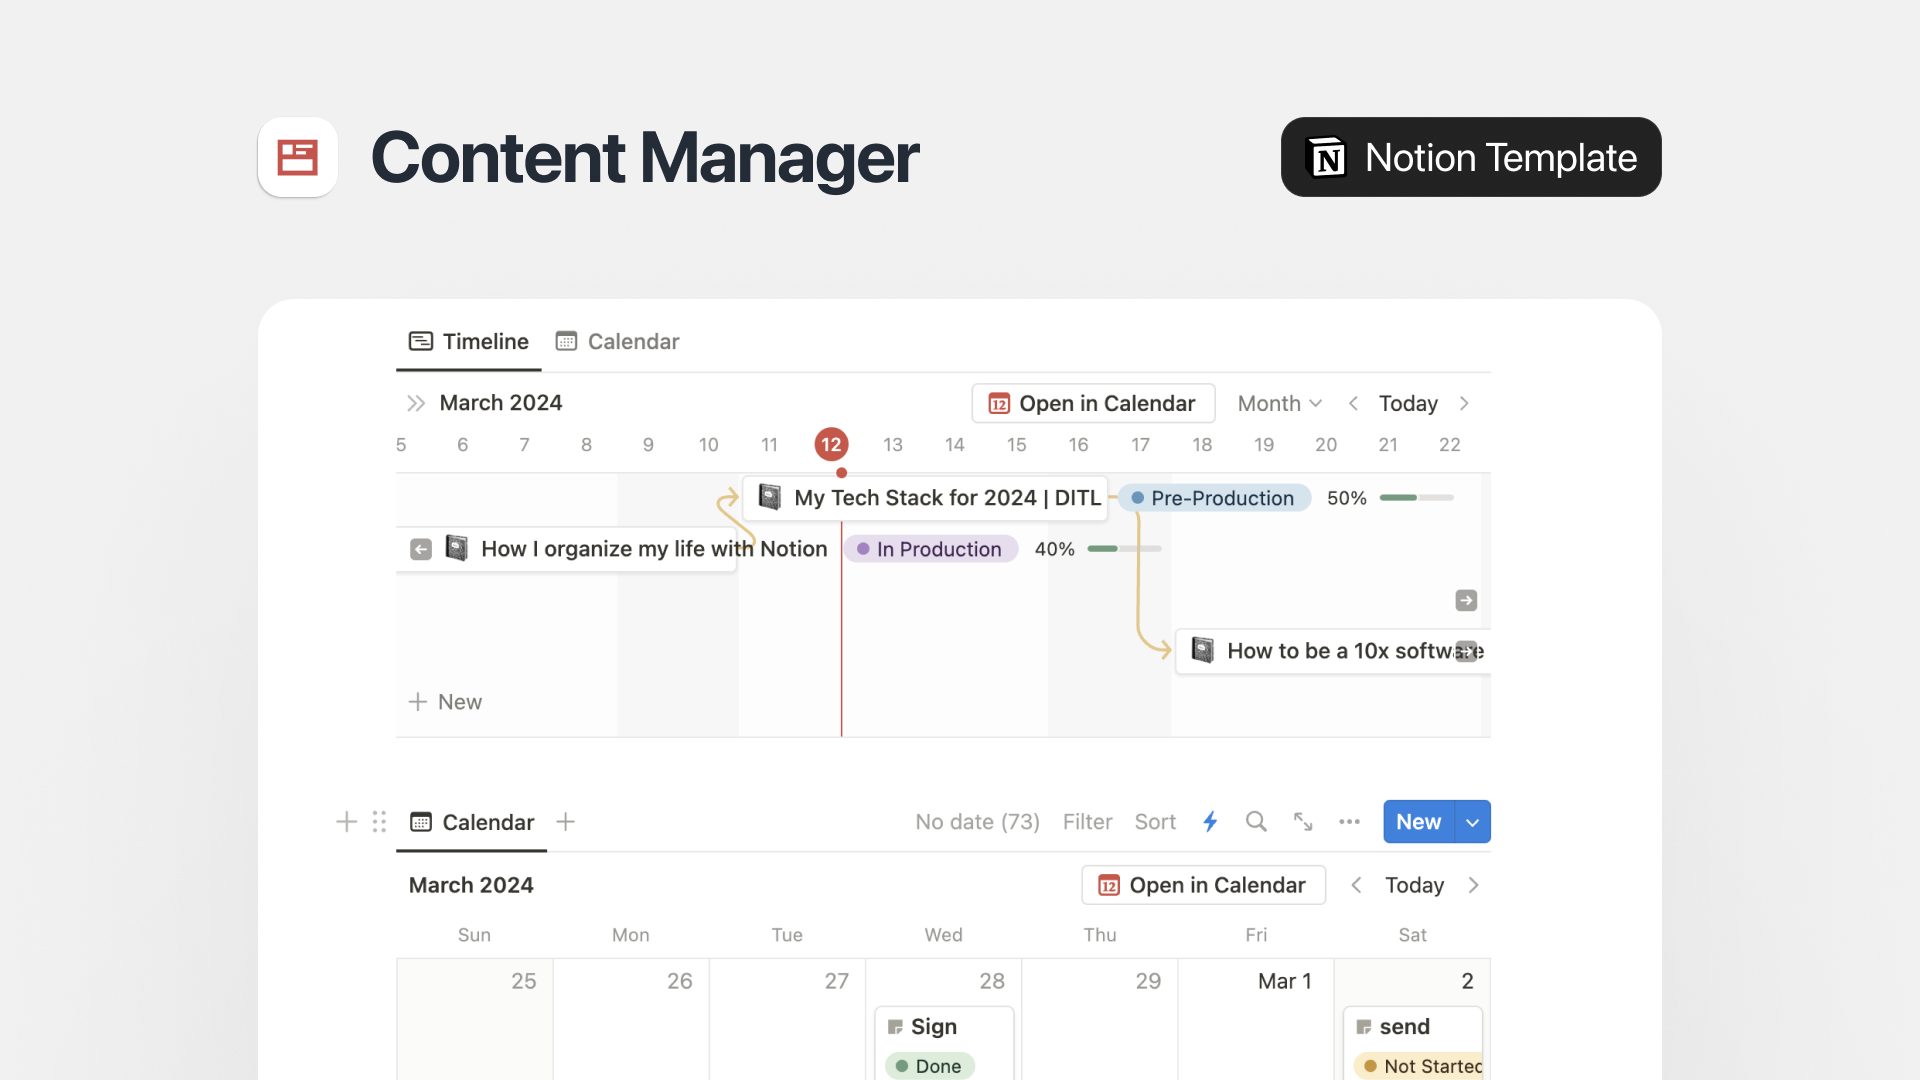
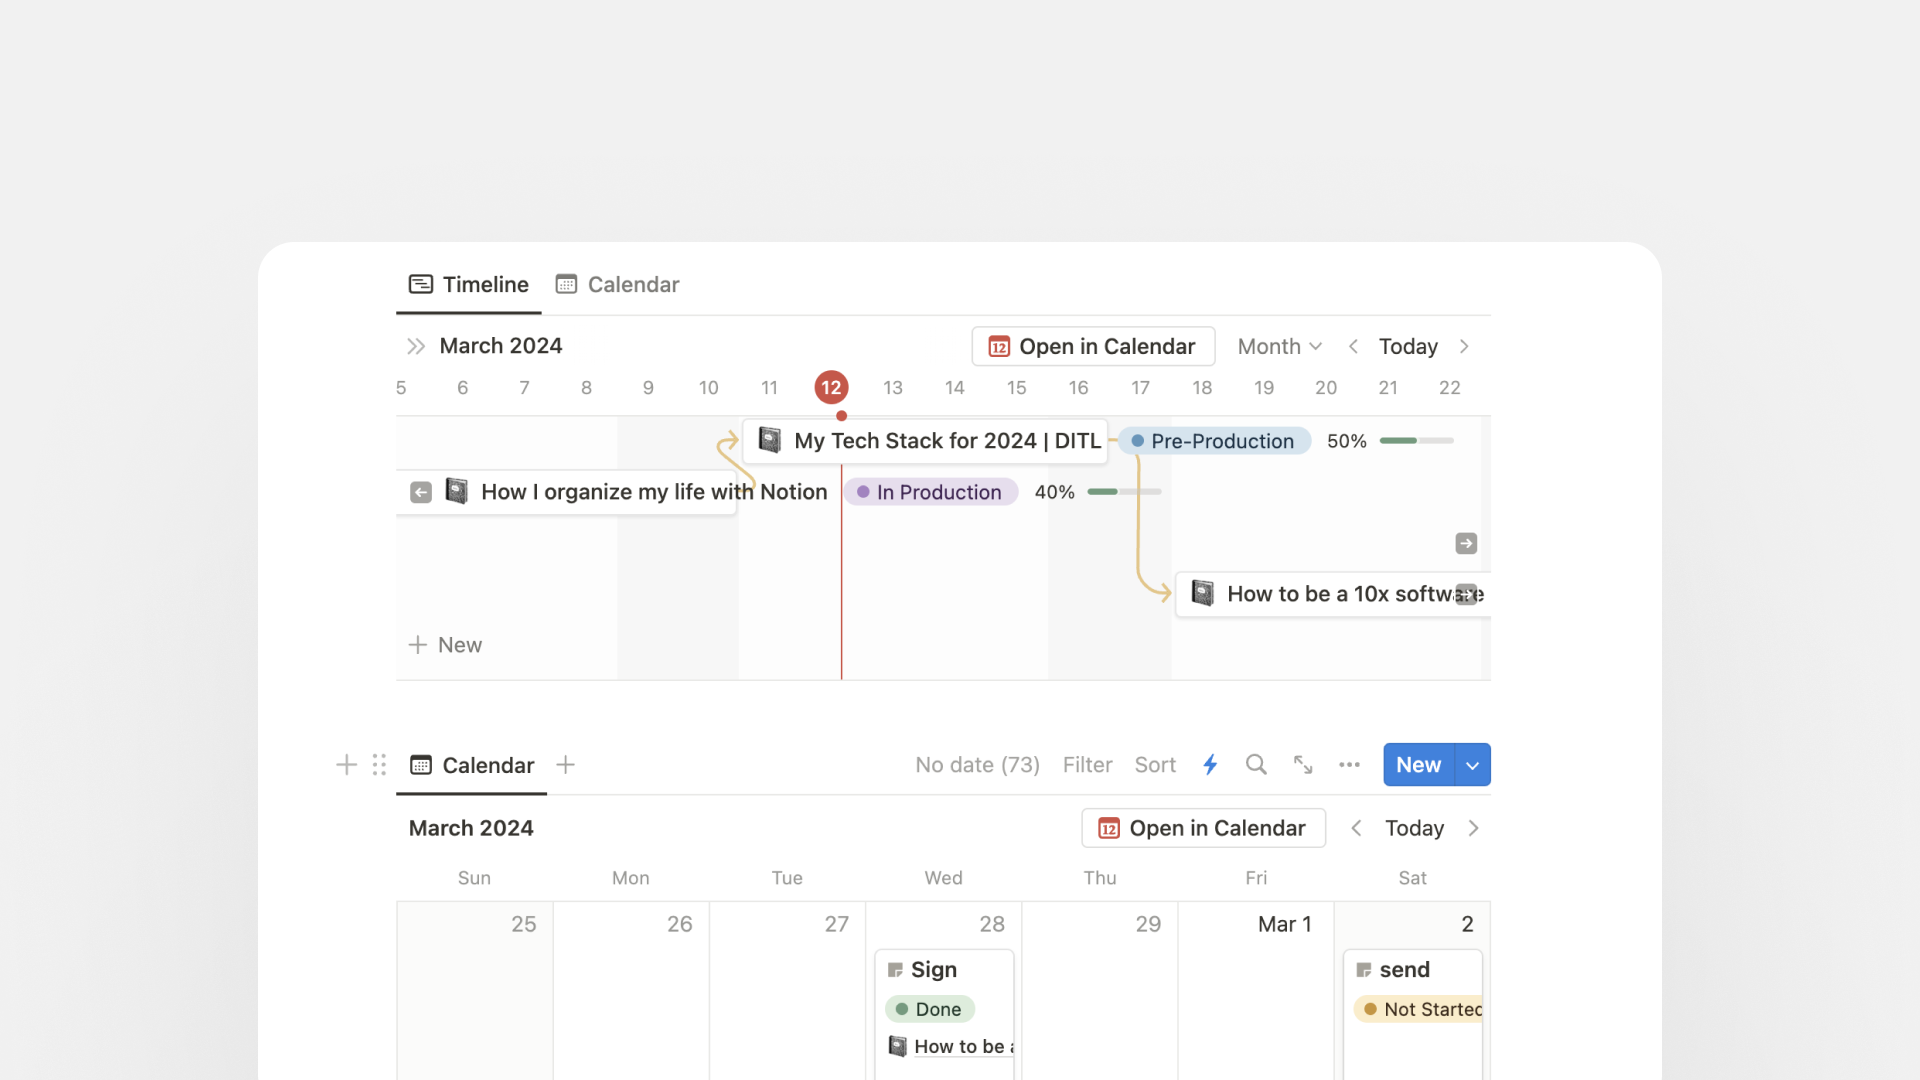
Refresh Notion setup post and polish theme toggle and OG previews.
Convert the Notion walkthrough into a video post with updated template screenshots, add ogImage support for share cards, and improve the theme icon replace animation.

diff --git a/src/components/Header.tsx b/src/components/Header.tsx
@@ -23,6 +23,7 @@ import {
   bouncySpring,
   contentFade,
   motionTransition,
+  symbolReplace,
 } from '@/lib/transitions'
 
 type TrayBounds = {
@@ -360,6 +361,8 @@ function ThemeToggle() {
   let { resolvedTheme, setTheme } = useTheme()
   let otherTheme = resolvedTheme === 'dark' ? 'light' : 'dark'
   let [mounted, setMounted] = useState(false)
+  let [iconDark, setIconDark] = useState(false)
+  let iconSynced = useRef(false)
   let reduceMotion = useReducedMotion()
 
   useEffect(() => {
@@ -367,36 +370,72 @@ function ThemeToggle() {
     setMounted(true)
   }, [])
 
-  let isDark = mounted && resolvedTheme === 'dark'
-  let transition = motionTransition(bouncy({ duration: 0.3 }), reduceMotion)
+  useEffect(() => {
+    if (!mounted) {
+      return
+    }
+
+    if (!iconSynced.current) {
+      iconSynced.current = true
+      setIconDark(resolvedTheme === 'dark')
+      return
+    }
+
+    if (reduceMotion) {
+      setIconDark(resolvedTheme === 'dark')
+      return
+    }
+
+    let timeout = window.setTimeout(() => {
+      setIconDark(resolvedTheme === 'dark')
+    }, 120)
+
+    return () => window.clearTimeout(timeout)
+  }, [mounted, reduceMotion, resolvedTheme])
+
+  let transition = motionTransition(symbolReplace(), reduceMotion)
+  let hidden = { opacity: 0, scale: 0.001 }
+  let visible = { opacity: 1, scale: 1 }
 
   return (
     <button
       type="button"
       aria-label={mounted ? `Switch to ${otherTheme} theme` : 'Toggle theme'}
-      className="group relative overflow-hidden rounded-full bg-card/90 px-3 py-2 shadow-lg ring-1 shadow-foreground/5 ring-border backdrop-blur-sm transition dark:bg-muted/90 dark:hover:ring-foreground/20"
+      className="group relative rounded-full bg-card/90 px-3 py-2 shadow-lg ring-1 shadow-foreground/5 ring-border backdrop-blur-sm transition dark:bg-muted/90 dark:hover:ring-foreground/20"
       onClick={() => setTheme(otherTheme)}
     >
-      <div className="absolute inset-0 max-md:hidden">
+      <div className="absolute inset-0 overflow-hidden rounded-full max-md:hidden">
         <Halo />
       </div>
-      <span className="relative z-10 block size-6 overflow-hidden">
-        <AnimatePresence mode="wait" initial={false}>
-          <motion.span
-            key={isDark ? 'dark' : 'light'}
-            initial={reduceMotion ? false : { opacity: 0, scale: 0.4 }}
-            animate={{ opacity: 1, scale: 1 }}
-            exit={reduceMotion ? undefined : { opacity: 0, scale: 0.4 }}
-            transition={transition}
-            className="absolute inset-0 flex items-center justify-center"
-          >
-            {isDark ? (
-              <MoonIcon className="size-6 text-accent" />
-            ) : (
+      <span className="relative z-10 block size-6 overflow-visible">
+        {!mounted ? (
+          <span className="absolute inset-0 flex items-center justify-center">
+            <SunIcon className="size-6 text-muted-foreground" />
+          </span>
+        ) : (
+          <>
+            <motion.span
+              initial={false}
+              animate={iconDark ? hidden : visible}
+              transition={transition}
+              style={{ transformOrigin: 'center', zIndex: iconDark ? 0 : 1 }}
+              className="absolute inset-0 flex items-center justify-center"
+              aria-hidden={iconDark}
+            >
               <SunIcon className="size-6 text-muted-foreground group-hover:text-foreground" />
-            )}
-          </motion.span>
-        </AnimatePresence>
+            </motion.span>
+            <motion.span
+              initial={false}
+              animate={iconDark ? visible : hidden}
+              transition={transition}
+              style={{ transformOrigin: 'center', zIndex: iconDark ? 1 : 0 }}
+              className="absolute inset-0 flex items-center justify-center"
+              aria-hidden={!iconDark}
+            >
+              <MoonIcon className="size-6 text-accent" />
+            </motion.span>
+          </>
+        )}
       </span>
     </button>
   )

diff --git a/src/lib/og.tsx b/src/lib/og.tsx
@@ -20,7 +20,8 @@ const logoPath = join(
   process.cwd(),
   'public/favicon/web-app-manifest-512x512.png',
 )
-const logoDisplaySize = 40
+const logoDisplaySize = 48
+const brandLabelFontSize = 40
 
 type Weight = 100 | 200 | 300 | 400 | 500 | 600 | 700 | 800 | 900
 type FontStyle = 'normal' | 'italic'
@@ -47,9 +48,9 @@ async function loadGoogleFont(font: string, text: string, weight?: Weight) {
   return null
 }
 
-// Hero-style title: bold + tight tracking, sized up for OG readability.
+// Line height uses text-4xl ratio (2.5rem / 2rem = 1.25), slightly airier at OG size.
 const titleFontSize = 64
-const titleLineHeight = 74 / 64
+const titleLineHeight = 1.25
 const titleLetterSpacing = '-0.025em'
 const titleMaxLines = 3
 // ~64 chars fits 3 lines at 64px within 900px (Satori line-clamp is unsupported).
@@ -124,7 +125,7 @@ export async function generateOgImage({ title }: { title: string }) {
           style={{
             display: 'flex',
             alignItems: 'center',
-            gap: '16px',
+            gap: '20px',
           }}
         >
           <img
@@ -135,7 +136,7 @@ export async function generateOgImage({ title }: { title: string }) {
           />
           <div
             style={{
-              fontSize: 32,
+              fontSize: brandLabelFontSize,
               color: ogTheme.mutedForeground,
               fontFamily: 'Inter, system-ui, sans-serif',
               fontWeight: 400,
@@ -156,7 +157,7 @@ export async function generateOgImage({ title }: { title: string }) {
             letterSpacing: titleLetterSpacing,
             lineHeight: titleLineHeight,
             fontFamily: 'Inter, system-ui, sans-serif',
-            fontWeight: 600,
+            fontWeight: 700,
           }}
         >
           {displayTitle}

diff --git a/src/lib/transitions.ts b/src/lib/transitions.ts
@@ -18,6 +18,7 @@ import type { Transition } from 'motion/react'
 type SpringOptions = {
   duration?: number
   extraBounce?: number
+  delay?: number
 }
 
 function spring(
@@ -44,6 +45,22 @@ export function snappy(options?: SpringOptions): Transition {
 /** More underdamped — visible bounce. SwiftUI `.bouncy()` */
 export function bouncy(options?: SpringOptions): Transition {
   return spring(0.3, options)
+}
+
+/**
+ * SF Symbol `.contentTransition(.symbolEffect(.replace))` / `.downUp`.
+ * Outgoing scales down, incoming scales up — scale leads, opacity trails.
+ *
+ * @see https://developer.apple.com/documentation/symbols/replacesymboleffect
+ */
+export function symbolReplace({
+  delay = 0,
+  ...options
+}: SpringOptions = {}): Transition {
+  return {
+    scale: { ...spring(0.4, { duration: 0.75, ...options }), delay },
+    opacity: { duration: 0.3, ease: 'easeOut', delay: delay + 0.04 },
+  }
 }
 
 /** Default presets */

diff --git a/src/lib/posts.ts b/src/lib/posts.ts
@@ -16,6 +16,7 @@ interface ArticleMeta {
   author: string
   date: string
   coverImage?: string
+  ogImage?: string
 }
 
 interface VideoMeta {
@@ -26,6 +27,7 @@ interface VideoMeta {
   date: string
   youtubeId: string
   coverImage?: string
+  ogImage?: string
 }
 
 export type PostMeta = ArticleMeta | VideoMeta
@@ -40,6 +42,10 @@ export function getYouTubeThumbnailUrl(youtubeId: string) {
 }
 
 function getPostShareImage(post: PostMeta) {
+  if (post.ogImage) {
+    return { url: post.ogImage, size: undefined }
+  }
+
   if (post.coverImage) {
     return { url: post.coverImage, size: undefined }
   }
